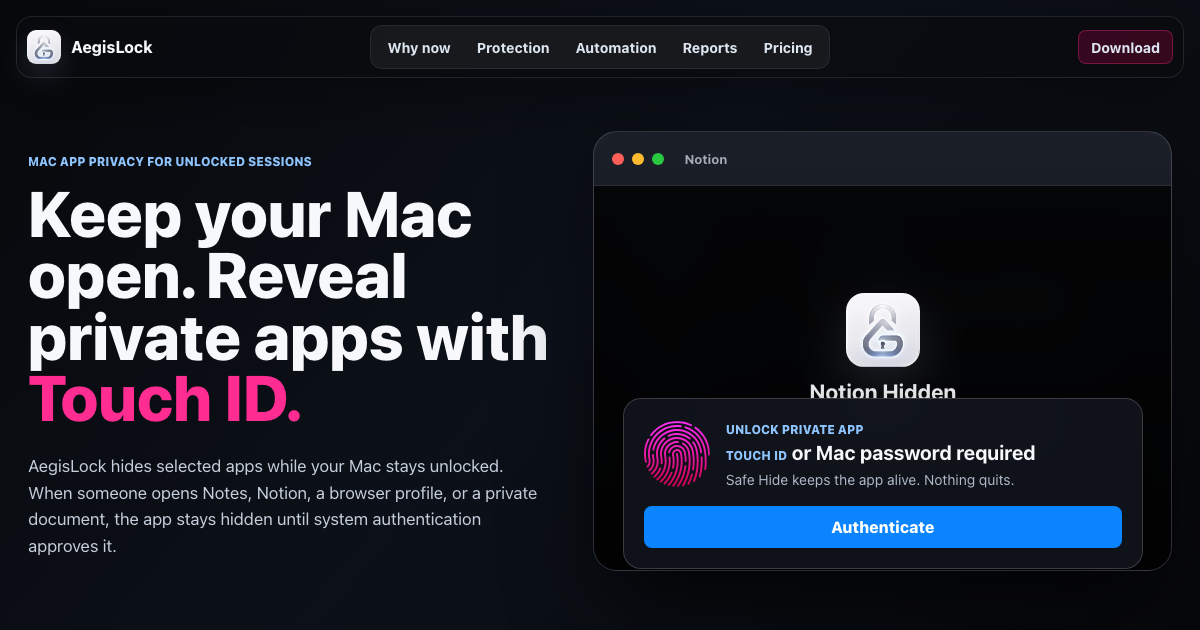
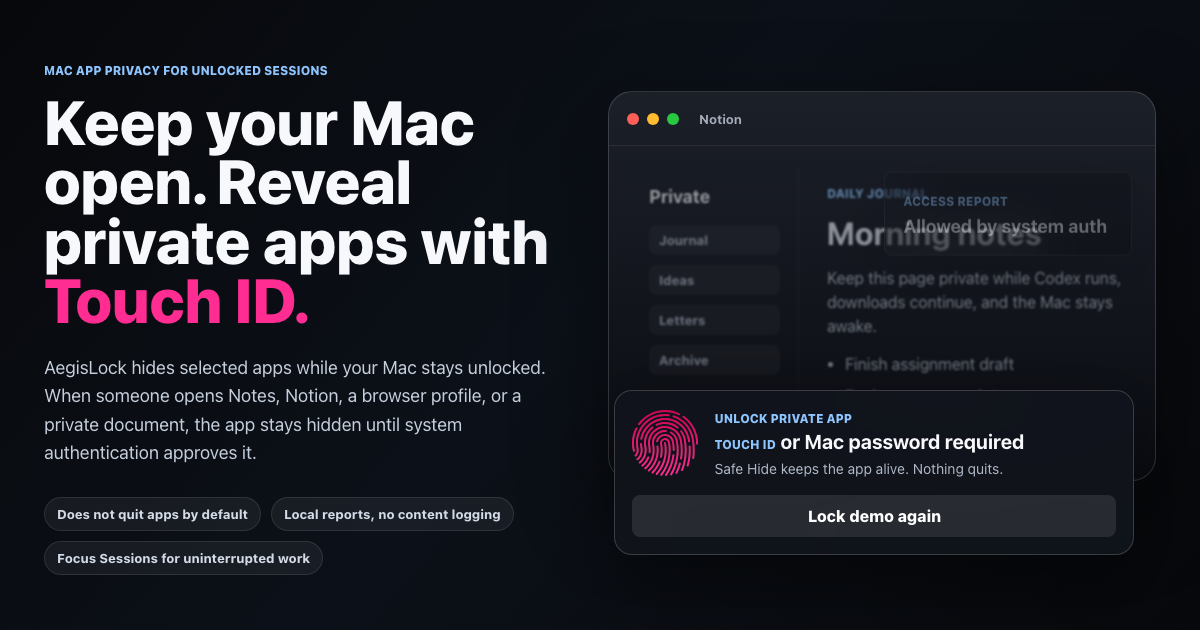
Refine Touch ID hero animation

diff --git a/src/styles.css b/src/styles.css
@@ -422,9 +422,7 @@ em {
   text-align: center;
   background: rgba(0, 0, 0, 0.84);
   backdrop-filter: blur(18px);
-  transition:
-    opacity 520ms ease,
-    visibility 520ms ease;
+  transition: opacity 320ms ease;
 }
 
 .shield-layer img {
@@ -482,20 +480,45 @@ em {
     0 0 0 1px rgba(255, 45, 146, 0.14);
 }
 
-.hero-demo.is-authenticating .touch-fill {
-  animation: touch-fill 1400ms steps(8, end) forwards;
-}
-
-.hero-demo.is-authenticating .touch-animation::after {
-  animation: touch-scan 1400ms ease-out forwards;
-}
-
-.hero-demo.is-unlocked .touch-fill {
-  clip-path: inset(0 0 0 0);
-}
-
 .hero-demo.is-unlocked .auth-card button {
   background: rgba(255, 255, 255, 0.1);
+}
+
+.hero-demo.is-authenticating .segment-1 {
+  animation: ridge-pulse 520ms ease 70ms both;
+}
+
+.hero-demo.is-authenticating .segment-2 {
+  animation: ridge-pulse 560ms ease 180ms both;
+}
+
+.hero-demo.is-authenticating .segment-3 {
+  animation: ridge-pulse 600ms ease 310ms both;
+}
+
+.hero-demo.is-authenticating .segment-4 {
+  animation: ridge-pulse 640ms ease 470ms both;
+}
+
+.hero-demo.is-authenticating .segment-5 {
+  animation: ridge-pulse 680ms ease 650ms both;
+}
+
+.hero-demo.is-authenticating .segment-6 {
+  animation: ridge-pulse 720ms ease 860ms both;
+}
+
+.hero-demo.is-authenticating .touch-complete {
+  animation: touch-complete 420ms ease 1120ms forwards;
+}
+
+.hero-demo.is-authenticating .touch-sweep {
+  animation: touch-sweep 1280ms cubic-bezier(0.2, 0.9, 0.2, 1) 80ms forwards;
+}
+
+.hero-demo.is-unlocked .touch-complete {
+  opacity: 1;
+  transform: scale(1);
 }
 
 .touch-animation {
@@ -510,26 +533,60 @@ em {
 }
 
 .touch-base {
-  opacity: 0.34;
-  filter: grayscale(1) brightness(1.65);
+  opacity: 0.22;
+  filter: grayscale(1) brightness(1.8);
 }
 
-.touch-fill {
+.touch-segment,
+.touch-complete,
+.touch-sweep {
   position: absolute;
   inset: 0;
   display: block;
-  overflow: hidden;
-  clip-path: inset(100% 0 0 0);
+  pointer-events: none;
+  -webkit-mask: var(--touch-mask) center / contain no-repeat;
+  mask: var(--touch-mask) center / contain no-repeat;
 }
 
-.touch-animation::after {
-  content: "";
-  position: absolute;
-  inset: 0;
-  border-radius: 18px;
+.touch-segment,
+.touch-complete {
   opacity: 0;
-  background: linear-gradient(180deg, transparent 0%, rgba(255, 45, 146, 0.28) 48%, transparent 100%);
-  transform: translateY(-70%);
+  transform: scale(0.975);
+  background: linear-gradient(180deg, var(--touch) 0%, var(--touch-2) 100%);
+  filter: drop-shadow(0 0 10px rgba(255, 45, 146, 0.36));
+}
+
+.segment-1 {
+  clip-path: inset(45% 38% 31% 38%);
+}
+
+.segment-2 {
+  clip-path: inset(35% 30% 25% 30%);
+}
+
+.segment-3 {
+  clip-path: inset(28% 22% 19% 22%);
+}
+
+.segment-4 {
+  clip-path: inset(20% 16% 13% 16%);
+}
+
+.segment-5 {
+  clip-path: inset(12% 9% 7% 9%);
+}
+
+.segment-6 {
+  clip-path: inset(0 0 0 0);
+}
+
+.touch-sweep {
+  opacity: 0;
+  background:
+    linear-gradient(180deg, transparent 0%, transparent 28%, rgba(255, 255, 255, 0.12) 42%, rgba(255, 45, 146, 0.58) 50%, transparent 64%, transparent 100%);
+  background-size: 100% 230%;
+  background-position: 50% 0%;
+  filter: drop-shadow(0 0 10px rgba(255, 45, 146, 0.34));
 }
 
 .auth-card span,
@@ -595,30 +652,54 @@ em {
   font-size: 18px;
 }
 
-@keyframes touch-fill {
-  from {
-    clip-path: inset(100% 0 0 0);
-  }
-
-  to {
-    clip-path: inset(0 0 0 0);
-  }
-}
-
-@keyframes touch-scan {
+@keyframes ridge-pulse {
   0% {
     opacity: 0;
-    transform: translateY(-74%);
+    transform: scale(0.94);
   }
 
-  18%,
-  72% {
+  32% {
     opacity: 1;
+    transform: scale(1.02);
+  }
+
+  72% {
+    opacity: 0.88;
+    transform: scale(1);
   }
 
   100% {
     opacity: 0;
-    transform: translateY(72%);
+    transform: scale(1);
+  }
+}
+
+@keyframes touch-complete {
+  0% {
+    opacity: 0;
+    transform: scale(0.98);
+  }
+
+  100% {
+    opacity: 1;
+    transform: scale(1);
+  }
+}
+
+@keyframes touch-sweep {
+  0% {
+    opacity: 0;
+    background-position: 50% 0%;
+  }
+
+  16%,
+  74% {
+    opacity: 0.86;
+  }
+
+  100% {
+    opacity: 0;
+    background-position: 50% 100%;
   }
 }
 